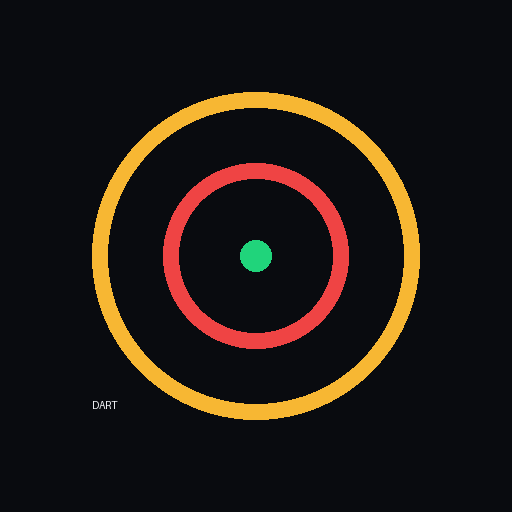
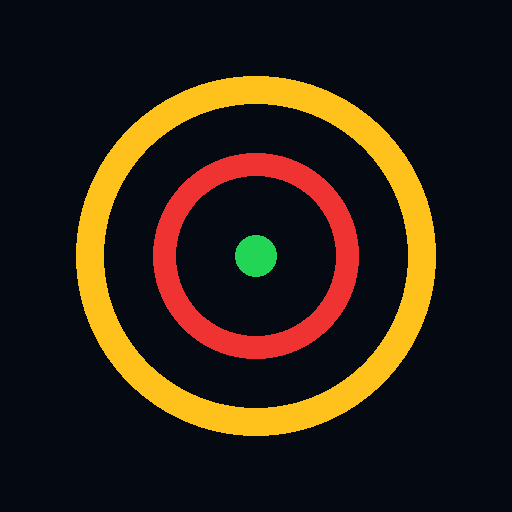
Add files via upload

diff --git a/index.html b/index.html
@@ -2,312 +2,75 @@
 <!doctype html>
 <html lang="no">
 <head>
-<meta charset="utf-8" />
-<meta name="viewport" content="width=device-width, initial-scale=1, viewport-fit=cover" />
-<meta name="theme-color" content="#090b0f" />
-<link rel="manifest" href="manifest.json" />
-<link rel="apple-touch-icon" href="icon-192.png" />
-<title>DART SCORE v4</title>
+<meta charset="utf-8">
+<meta name="viewport" content="width=device-width, initial-scale=1, viewport-fit=cover">
+<meta name="theme-color" content="#050911">
+<link rel="manifest" href="manifest.json">
+<link rel="apple-touch-icon" href="icon-192.png">
+<title>DART SCORE v5.3</title>
 <style>
-:root{
-  --bg:#090b0f;--panel:#121821;--panel2:#17202c;--line:#263140;--text:#f5f7fb;--muted:#9ca8b8;
-  --green:#20d47b;--gold:#f7b733;--red:#ef4444;--blue:#4aa3ff;--orange:#fb923c;
-}
-*{box-sizing:border-box}
-html,body{margin:0;width:100%;height:100%;overflow:hidden;background:var(--bg);color:var(--text);font-family:Arial,Helvetica,sans-serif}
-button,input,select{font-family:inherit}
-.app{
-  width:100vw;height:100vh;overflow:hidden;display:grid;grid-template-rows:58px 132px 1fr 300px;gap:8px;padding:8px;
-  background:radial-gradient(circle at 50% 35%, rgba(247,183,51,.08), transparent 28%),linear-gradient(180deg,#0d1118,#07080b);
-}
-.topbar{display:grid;grid-template-columns:1fr auto 1fr;align-items:center;background:linear-gradient(180deg,#151b24,#0e1218);border:1px solid var(--line);border-radius:14px;padding:0 10px;box-shadow:0 8px 30px rgba(0,0,0,.35)}
-.logo{font-size:21px;font-weight:900;letter-spacing:.3px}.logo span{color:var(--gold)}
-.match{font-size:24px;font-weight:900;color:var(--gold);text-align:center}
-.nav{justify-self:end;display:flex;gap:6px}.nav button{background:#202835;color:#fff;border:1px solid var(--line);border-radius:10px;padding:9px 12px;font-size:13px;font-weight:800}.nav .active{background:var(--gold);color:#101010}
-.players{display:grid;grid-template-columns:repeat(var(--player-cols,4),1fr);gap:8px;min-height:0}
-.player{position:relative;background:linear-gradient(180deg,#151d28,#101620);border:2px solid var(--line);border-radius:14px;padding:9px 11px;display:grid;grid-template-rows:auto 1fr auto;min-width:0}
-.player.active{border-color:var(--green);box-shadow:0 0 0 3px rgba(32,212,123,.12), 0 0 22px rgba(32,212,123,.12)}
-.pname{font-size:17px;font-weight:900;white-space:nowrap;overflow:hidden;text-overflow:ellipsis}.pscore{font-size:52px;font-weight:900;line-height:.95;letter-spacing:-2px}
-.pmeta{display:grid;grid-template-columns:repeat(4,1fr);gap:5px;color:var(--muted);font-size:10px}.pmeta b{display:block;color:var(--text);font-size:14px}
-.active-main{display:grid;grid-template-columns:1fr 145px;gap:8px;min-height:0}
-.hero{background:linear-gradient(180deg,#111923,#0c1118);border:2px solid var(--line);border-radius:16px;display:grid;grid-template-columns:1fr 210px;overflow:hidden;min-height:0}
-.hero-left{padding:14px 18px;display:flex;flex-direction:column;justify-content:center;min-width:0}
-.turn-label{font-size:13px;color:var(--muted);font-weight:800;letter-spacing:.8px}.turn-name{font-size:31px;font-weight:950;margin-top:2px;white-space:nowrap;overflow:hidden;text-overflow:ellipsis}
-.remaining{font-size:88px;font-weight:950;line-height:.9;color:var(--gold);letter-spacing:-4px;margin:5px 0}.checkout,.darts{font-size:17px}.checkout span{color:var(--green);font-weight:900}.darts{margin-top:8px;color:var(--muted)}.darts b{color:var(--text)}
-.message{margin-top:8px;font-size:16px;font-weight:800;color:var(--orange);min-height:20px}
-.hero-side{border-left:1px solid var(--line);background:#0c1219;display:grid;grid-template-rows:1fr 1fr}
-.sidebox{padding:13px;border-bottom:1px solid var(--line)}.sidebox:last-child{border-bottom:0}.side-title{color:var(--muted);font-size:11px;font-weight:900;margin-bottom:8px}.side-big{font-size:32px;font-weight:950}
-.quick{display:grid;grid-template-rows:1fr 1fr;gap:8px}.quick button{border:1px solid var(--line);border-radius:14px;background:var(--panel);color:var(--text);font-size:18px;font-weight:900}.quick .yellow{background:linear-gradient(180deg,#342917,#1d1710);border-color:#6a501b;color:#ffd15e}.quick .helmet{background:linear-gradient(180deg,#2b2414,#17140d);border-color:#5c4919;color:#ffd15e}
-.controls{display:grid;grid-template-columns:120px 1fr 150px;gap:8px;min-height:0}.modifiers,.actions{display:grid;grid-template-rows:1fr 1fr 1fr;gap:7px}.numbers{display:grid;grid-template-columns:repeat(7,1fr);grid-template-rows:repeat(3,1fr);gap:7px}
-.btn{border:0;border-radius:12px;color:white;font-weight:950;box-shadow:inset 0 0 0 1px rgba(255,255,255,.08), 0 8px 20px rgba(0,0,0,.25)}.btn-d{background:linear-gradient(180deg,#1f7b43,#13582f);font-size:34px}.btn-t{background:linear-gradient(180deg,#b32727,#7b1919);font-size:34px}.btn-m{background:linear-gradient(180deg,#394251,#202835);font-size:34px}.btn.selected{outline:4px solid var(--gold)}
-.num{background:linear-gradient(180deg,#242c38,#151b24);border:1px solid #333e4d;border-radius:12px;color:white;font-size:27px;font-weight:950}.num.hot{border-color:#73561d;background:linear-gradient(180deg,#3a2b16,#1d1710);color:#ffd15e}
-.undo{background:linear-gradient(180deg,#343b47,#1c222b);font-size:17px}.ok{background:linear-gradient(180deg,#2fbb63,#188144);font-size:20px}
-.page{display:none;width:100vw;height:100vh;overflow:auto;background:#090b0f;color:white;padding:14px}.page.active{display:block}.page h1{margin:0 0 12px}.panel{background:#111923;border:1px solid var(--line);border-radius:14px;padding:14px;margin-bottom:12px}.row{display:flex;gap:8px;flex-wrap:wrap;align-items:center}.field{background:#0d1219;border:1px solid var(--line);border-radius:10px;color:white;padding:10px;font-size:16px}.panel button,.page button{background:#202835;color:#fff;border:1px solid var(--line);border-radius:10px;padding:10px 14px;font-weight:800}.primary{background:var(--gold)!important;color:#111!important}.danger{background:#7f1d1d!important}.table{width:100%;border-collapse:collapse;font-size:14px}.table th,.table td{border-bottom:1px solid #263140;padding:8px;text-align:left}.small{color:var(--muted);font-size:13px}
-@media (max-width:900px){.app{transform:scale(.92);transform-origin:top left;width:108.7vw;height:108.7vh}}
+:root{--bg:#050911;--p:#0b141e;--p2:#111c29;--l:#334255;--t:#f7f8fb;--m:#a8b2c1;--g:#23d554;--y:#ffc21c;--r:#ef3232}
+*{box-sizing:border-box}html,body{margin:0;width:100%;height:100%;overflow:hidden;background:var(--bg);color:var(--t);font-family:Arial,Helvetica,sans-serif}button,input,select{font-family:inherit}
+#game{width:100vw;height:100vh;display:grid;grid-template-rows:58px 138px 1fr 182px;gap:6px;padding:4px;background:radial-gradient(circle at 45% 35%,rgba(0,160,255,.08),transparent 32%),linear-gradient(180deg,#050911,#03060b)}
+.top{display:grid;grid-template-columns:1fr auto 1fr;align-items:center;border:1px solid var(--l);border-radius:12px;background:#0b141e;padding:0 10px}.logo{font-size:20px;font-weight:950}.logo span{color:var(--y)}.match{font-size:25px;font-weight:950;color:var(--y)}.nav{justify-self:end;display:flex;gap:6px}.nav button{font-size:13px;font-weight:900;color:white;background:#121e2d;border:1px solid var(--l);border-radius:10px;padding:9px 13px}
+.players{display:grid;grid-template-columns:repeat(var(--cols),1fr);gap:6px;min-height:0}.player{background:linear-gradient(180deg,#0d1722,#070d14);border:2px solid var(--l);border-radius:12px;padding:10px 12px;display:grid;grid-template-rows:auto auto 1fr auto;min-width:0}.player.active{border-color:var(--g);box-shadow:0 0 14px rgba(35,213,84,.45)}.pName{font-size:18px;font-weight:950;white-space:nowrap;overflow:hidden;text-overflow:ellipsis}.player.active .pName{color:var(--g)}.pLabel{font-size:11px;color:var(--m);font-weight:950;margin-top:3px}.player.active .pLabel{color:var(--g)}.pScore{font-size:54px;font-weight:950;line-height:.9;letter-spacing:-2px}.player.active .pScore{color:var(--g)}.pStats{display:grid;grid-template-columns:repeat(5,1fr);gap:5px;font-size:10px;color:var(--m)}.pStats b{display:block;color:white;font-size:15px}
+.main{display:grid;grid-template-columns:1fr 115px 145px;gap:6px;min-height:0}.board{background:linear-gradient(180deg,#08131e,#050b12);border:1px solid var(--l);border-radius:14px;display:grid;grid-template-columns:290px 1fr;min-width:0}.activeInfo{padding:18px;border-right:1px solid var(--l);display:flex;flex-direction:column;justify-content:center}.smallHead{color:var(--m);font-size:15px;font-weight:950}.activeName{font-size:30px;font-weight:950;margin:6px 0}.bigScore{font-size:82px;line-height:.85;color:var(--y);font-weight:950;letter-spacing:-3px}.origin,.checkout{font-size:17px;margin-top:14px;color:var(--m)}.origin b{color:white}.checkout b{color:var(--g)}
+.dartArea{display:grid;grid-template-rows:1fr 54px;padding:14px 16px 10px}.dartCards{display:grid;grid-template-columns:repeat(3,1fr);gap:10px}.dartCard{border-right:1px solid #566273;text-align:center;display:flex;flex-direction:column;justify-content:center}.dartCard:last-child{border-right:0}.dartTitle{font-size:18px;font-weight:950}.dot{width:14px;height:14px;border-radius:50%;background:#697381;margin:9px auto}.dartCard.filled .dot,.dartCard.active .dot{background:var(--g)}.dartValue{font-size:58px;font-weight:950;line-height:1}.dartLabel{font-size:22px;color:var(--g);font-weight:950}.dartCard.active{background:rgba(35,213,84,.04);border-radius:12px}
+.live{border-top:1px solid #566273;display:grid;grid-template-columns:1fr 1fr 1.5fr;align-items:center;text-align:center;font-weight:950}.live .label{font-size:16px}.live .sum{font-size:38px;color:var(--y)}.live .now{font-size:38px;color:var(--g)}.trail{font-size:17px;color:var(--m)}.trail b{color:white}.trail span{color:var(--g)}
+.sideStats{background:#071019;border:1px solid var(--l);border-radius:14px;display:grid;grid-template-rows:1fr 1fr}.sideBox{padding:15px;border-bottom:1px solid var(--l)}.sideBox:last-child{border-bottom:0}.sideBox div{font-size:13px;color:var(--m);font-weight:950}.sideBox b{font-size:38px;display:block;margin-top:14px}
+.cards{display:grid;grid-template-rows:1fr 1fr;gap:6px}.cardBtn{border-radius:14px;border:1px solid;font-size:18px;font-weight:950}.yellow{background:#21190a;border-color:#8d6a00;color:var(--y)}.helmet{background:#180b0b;border-color:#7a1c1c;color:var(--r)}.cardBtn b{display:block;font-size:42px;margin-top:8px}
+.keypad{display:grid;grid-template-columns:120px 1fr 150px;gap:6px;min-height:0}.mods{display:grid;grid-template-rows:1fr 1fr;gap:6px}.mods button,.numbers button,.actions button{border-radius:12px;border:1px solid var(--l);color:white;font-weight:950}.modD,.modM{background:linear-gradient(180deg,#16833a,#0e5c29);font-size:42px}.modD.selected{outline:4px solid var(--y)}.numbers{display:grid;grid-template-columns:repeat(9,1fr);grid-template-rows:repeat(3,1fr);gap:6px}.numbers button{background:linear-gradient(180deg,#132233,#0b1420);font-size:30px}.bull{grid-column:1/5}.undoThrow{grid-column:5/8}.undoDart{grid-column:8/10}.actions{display:grid}.modT{background:linear-gradient(180deg,#c71919,#821111);font-size:52px}.modT.selected{outline:4px solid var(--y)}
+.page{display:none;width:100vw;height:100vh;overflow:auto;background:#050911;padding:18px}.page.active{display:block}.panel{background:#0b141e;border:1px solid var(--l);border-radius:16px;padding:18px;margin-bottom:14px}.row{display:flex;gap:12px;flex-wrap:wrap;align-items:center}.field{background:#08111b;color:white;border:1px solid var(--l);border-radius:10px;padding:12px;font-size:18px}.page button{font-weight:900;background:#121e2d;color:white;border:1px solid var(--l);border-radius:10px;padding:12px 16px}.primary{background:var(--y)!important;color:#111!important}.table{width:100%;border-collapse:collapse}.table th,.table td{padding:10px;border-bottom:1px solid var(--l);text-align:left}.startGrid{display:grid;grid-template-columns:1fr 1fr;gap:14px}.pickList{display:grid;grid-template-columns:repeat(2,1fr);gap:10px}.pick{background:#08111b;border:1px solid var(--l);border-radius:12px;padding:12px}.pick input{width:24px;height:24px}
 </style>
 </head>
 <body>
-<main id="game" class="app">
-  <header class="topbar">
+<main id="game">
+  <header class="top">
     <div class="logo">🎯 DART <span>SCORE</span></div>
     <div class="match" id="matchTitle">LEG 1 / 501</div>
-    <div class="nav">
-      <button onclick="showPage('setup')">Oppsett</button>
-      <button onclick="showPage('history')">Historikk</button>
-      <button onclick="showPage('stats')">Statistikk</button>
-    </div>
+    <div class="nav"><button onclick="showPage('start')">Start</button><button onclick="showPage('history')">Historikk</button><button onclick="showPage('stats')">Statistikk</button></div>
   </header>
   <section class="players" id="players"></section>
-  <section class="active-main">
-    <div class="hero">
-      <div class="hero-left">
-        <div class="turn-label">AKTIV SPILLER</div>
-        <div class="turn-name" id="turnName">-</div>
-        <div class="remaining" id="remaining">501</div>
-        <div class="checkout">Checkout: <span id="checkout">—</span></div>
-        <div class="darts" id="darts">Pil 1: <b>—</b> · Pil 2: <b>—</b> · Pil 3: <b>—</b></div>
-        <div class="message" id="message"></div>
+  <section class="main">
+    <section class="board">
+      <div class="activeInfo">
+        <div class="smallHead">AKTIV SPILLER</div><div class="activeName" id="activeName"></div><div class="bigScore" id="activeScore"></div>
+        <div class="origin">Opprinnelig score: <b id="originScore"></b></div><div class="checkout">Checkout:<br><b id="checkout">—</b></div>
       </div>
-      <div class="hero-side">
-        <div class="sidebox"><div class="side-title">RUNDE</div><div class="side-big" id="roundSum">0</div></div>
-        <div class="sidebox"><div class="side-title">DAGENS HØYESTE</div><div class="side-big" id="dailyHigh">0</div></div>
-      </div>
-    </div>
-    <div class="quick">
-      <button class="yellow" onclick="card('yellow')">🟨<br>GULT KORT</button>
-      <button class="helmet" onclick="card('helmet')">⛑️<br>HJELM BRUKT</button>
-    </div>
+      <div class="dartArea"><div class="dartCards" id="dartCards"></div><div class="live"><div><div class="label">SUM KAST</div><div class="sum" id="sumThrow">0</div></div><div><div class="label">SCORE IGJEN NÅ</div><div class="now" id="scoreNow">501</div></div><div class="trail" id="liveTrail">LIVE: <b>501</b></div></div></div>
+    </section>
+    <section class="sideStats"><div class="sideBox"><div>RUNDE</div><b id="roundNo">1</b></div><div class="sideBox"><div>DAGENS HØYESTE</div><b id="dailyHigh">0</b></div></section>
+    <section class="cards"><button class="cardBtn yellow" onclick="card('yellow')">🟨<br>GULT KORT<b id="yellowCount">0</b></button><button class="cardBtn helmet" onclick="card('helmet')">🪖<br>HJELM BRUKT<b id="helmetCount">0</b></button></section>
   </section>
-  <section class="controls">
-    <div class="modifiers">
-      <button id="btnD" class="btn btn-d" onclick="toggleMod('D')">D</button>
-      <button id="btnT" class="btn btn-t" onclick="toggleMod('T')">T</button>
-      <button class="btn btn-m" onclick="miss()">M</button>
-    </div>
-    <div class="numbers" id="numbers"></div>
-    <div class="actions">
-      <button class="btn undo" onclick="undoDart()">↶ ANGRE PIL</button>
-      <button class="btn undo" onclick="undoThrow()">↶ ANGRE KAST</button>
-      <button class="btn ok" onclick="saveThrow()">OK<br>NESTE</button>
-    </div>
-  </section>
+  <section class="keypad"><div class="mods"><button id="btnD" class="modD" onclick="toggleMod('D')">D</button><button class="modM" onclick="miss()">M</button></div><div class="numbers" id="numbers"></div><div class="actions"><button id="btnT" class="modT" onclick="toggleMod('T')">T</button></div></section>
 </main>
-
-<section id="setup" class="page">
-  <h1>Oppsett</h1>
-  <div class="panel">
-    <h2>Nytt spill</h2>
-    <div class="row">
-      <label>Spilltype <select id="startScore" class="field"><option>301</option><option selected>501</option><option>701</option></select></label>
-      <label>IN <select id="inRule" class="field"><option value="single">Single In</option><option value="master" selected>Master In</option></select></label>
-      <label>OUT <select id="outRule" class="field"><option value="single">Single Out</option><option value="double" selected>Double Out</option><option value="master">Master Out</option></select></label>
-    </div>
-    <h3>Spillere</h3>
-    <div id="playerInputs"></div>
-    <div class="row">
-      <button onclick="addPlayerInput()">+ Spiller</button>
-      <button onclick="removePlayerInput()">- Spiller</button>
-      <button class="primary" onclick="newGame()">Start nytt spill</button>
-      <button onclick="showPage('game')">Tilbake</button>
-    </div>
-  </div>
-</section>
-
-<section id="history" class="page">
-  <h1>Historikk</h1>
-  <div class="panel row">
-    <button onclick="showPage('game')">Tilbake til spill</button>
-    <button onclick="exportCSV()">Eksporter CSV</button>
-    <button class="danger" onclick="clearHistory()">Slett historikk</button>
-  </div>
-  <div class="panel">
-    <h2>Kamper</h2>
-    <table class="table" id="historyTable"></table>
-  </div>
-  <div class="panel">
-    <h2>Kast i valgt kamp</h2>
-    <table class="table" id="throwTable"></table>
-  </div>
-</section>
-
-<section id="stats" class="page">
-  <h1>Statistikk</h1>
-  <div class="panel row"><button onclick="showPage('game')">Tilbake til spill</button></div>
-  <div class="panel"><table class="table" id="statsTable"></table></div>
-</section>
-
+<section id="start" class="page"><div class="panel"><h1>DART SCORE – Start</h1><div class="row"><button onclick="showGame()">Til spill</button><button class="primary" onclick="startGame()">Start kamp</button></div></div><div class="startGrid"><div class="panel"><h2>Nytt spill</h2><div class="row"><label>Spill <select id="startScore" class="field"><option>301</option><option selected>501</option><option>701</option></select></label><label>IN <select id="inRule" class="field"><option value="single">Single In</option><option value="master" selected>Master In</option></select></label><label>OUT <select id="outRule" class="field"><option value="single">Single Out</option><option value="double" selected>Double Out</option><option value="master">Master Out</option></select></label></div><h2>Spillere</h2><div id="pickList" class="pickList"></div><div class="row"><input id="newName" class="field" placeholder="Nytt navn"><button onclick="addKnown()">Legg til</button></div></div><div class="panel"><h2>Spillerhistorikk</h2><table class="table" id="homeStats"></table></div></div></section>
+<section id="history" class="page"><div class="panel row"><h1>Historikk</h1><button onclick="showGame()">Tilbake</button><button onclick="exportCSV()">Eksporter CSV</button></div><div class="panel"><h2>Spilleroversikt</h2><table class="table" id="historyPlayerTable"></table></div><div class="panel"><h2>Kast-historikk</h2><table class="table" id="historyTable"></table></div></section>
+<section id="stats" class="page"><div class="panel row"><h1>Statistikk</h1><button onclick="showGame()">Tilbake</button></div><div class="panel"><table class="table" id="statsTable"></table></div></section>
 <script>
-const STORE='dartscore-v4-complete';
-let state = JSON.parse(localStorage.getItem(STORE)||'null') || defaultState();
-let selectedMod = null;
-
-function defaultState(){
-  return {
-    gameId: Date.now(), startScore:501, inRule:'master', outRule:'double', active:0, leg:1, current:[],
-    players:[p('Marius'),p('Dag Arne'),p('Sven Tore'),p('Spiller 4')],
-    throws:[], games:[], dailyDate:new Date().toISOString().slice(0,10), dailyHigh:0, message:''
-  };
-}
-function p(name){return {name,score:501,inOpen:false,darts:0,totalScored:0,high:0,n180:0,n140:0,n100:0,yellow:0,helmet:0,winner:false};}
-function save(){localStorage.setItem(STORE,JSON.stringify(state));}
-function showPage(id){
-  document.getElementById('game').style.display = id==='game'?'grid':'none';
-  document.querySelectorAll('.page').forEach(x=>x.classList.remove('active'));
-  if(id!=='game') document.getElementById(id).classList.add('active');
-  if(id==='history') renderHistory();
-  if(id==='stats') renderStats();
-}
-function render(){
-  if(new Date().toISOString().slice(0,10)!==state.dailyDate){state.dailyDate=new Date().toISOString().slice(0,10);state.dailyHigh=0;}
-  document.getElementById('matchTitle').textContent = `LEG ${state.leg} / ${state.startScore}`;
-  document.documentElement.style.setProperty('--player-cols', Math.min(state.players.length,4));
-  const wrap=document.getElementById('players'); wrap.innerHTML='';
-  state.players.forEach((pl,i)=>{
-    const avg = pl.darts ? ((pl.totalScored/pl.darts)*3).toFixed(1) : '0.0';
-    wrap.innerHTML += `<article class="player ${i===state.active?'active':''}">
-      <div class="pname">${esc(pl.name)}${pl.winner?' 🏆':''}</div><div class="pscore">${pl.score}</div>
-      <div class="pmeta"><div>Avg<b>${avg}</b></div><div>180<b>${pl.n180}</b></div><div>High<b>${pl.high}</b></div><div>Hjelm<b>${pl.helmet?'Ja':'Nei'}</b></div></div>
-    </article>`;
-  });
-  const pl=state.players[state.active];
-  document.getElementById('turnName').textContent=pl.name;
-  document.getElementById('remaining').textContent=pl.score;
-  document.getElementById('checkout').textContent = checkout(pl.score);
-  const ds=[0,1,2].map(i=> state.current[i] ? `<b>${state.current[i].label}</b>` : '<b>—</b>');
-  document.getElementById('darts').innerHTML = `Pil 1: ${ds[0]} · Pil 2: ${ds[1]} · Pil 3: ${ds[2]}`;
-  document.getElementById('roundSum').textContent = state.current.reduce((a,d)=>a+d.value,0);
-  document.getElementById('dailyHigh').textContent = state.dailyHigh;
-  document.getElementById('message').textContent = state.message||'';
-  document.getElementById('btnD').classList.toggle('selected',selectedMod==='D');
-  document.getElementById('btnT').classList.toggle('selected',selectedMod==='T');
-  save();
-}
-function esc(s){return String(s).replace(/[&<>"']/g,c=>({'&':'&amp;','<':'&lt;','>':'&gt;','"':'&quot;',"'":'&#39;'}[c]));}
-function buildNums(){
-  const nums=[20,19,18,17,16,15,14,13,12,11,10,9,8,7,6,5,4,3,2,1,25];
-  document.getElementById('numbers').innerHTML = nums.map(n=>`<button class="num ${(n>=19||n===25)?'hot':''}" onclick="hit(${n})">${n}</button>`).join('');
-}
-function toggleMod(m){selectedMod = selectedMod===m ? null : m; render();}
-function addDart(label,value,rawValue,mod,num){
-  if(state.current.length>=3) return;
-  state.current.push({label,value,rawValue,mod,num});
-  selectedMod=null; state.message='';
-  if(state.current.length===3) saveThrow(); else render();
-}
-function hit(num){
-  const mod=selectedMod||'S';
-  let mult = mod==='D'?2:mod==='T'?3:1;
-  let raw = num*mult;
-  if(num===25 && mod==='D') raw=50;
-  if(num===25 && mod==='T') raw=25; // triple bull finnes ikke, teller som single bull
-  const pl=state.players[state.active];
-  let value=raw, label=`${mod}${num}`;
-  if(state.inRule==='master' && !pl.inOpen && mod==='S'){ value=0; label=`S${num}=0`; }
-  addDart(label,value,raw,mod,num);
-}
-function miss(){addDart('M',0,0,'M',0);}
-function undoDart(){state.current.pop(); state.message=''; render();}
-function saveThrow(){
-  const pl=state.players[state.active];
-  while(state.current.length<3) state.current.push({label:'-',value:0,rawValue:0,mod:'M',num:0});
-  const before=pl.score;
-  let darts=state.current.map(x=>({...x}));
-  let openedThisThrow=false;
-  if(state.inRule==='master' && !pl.inOpen){
-    let openIndex=darts.findIndex(d=>d.mod==='D'||d.mod==='T');
-    if(openIndex<0){darts=darts.map(d=>({...d,value:0,label:d.label==='-'?'-':`${d.label.replace('=0','')}=0`}));}
-    else{
-      openedThisThrow=true;
-      darts=darts.map((d,i)=> i<openIndex ? {...d,value:0,label:d.label==='-'?'-':`${d.label}=0`} : d);
-    }
-  }
-  const sum=darts.reduce((a,d)=>a+d.value,0);
-  const after=before-sum;
-  const lastScoring = [...darts].reverse().find(d=>d.value>0);
-  let bust=false, win=false, msg='';
-  if(after<0 || after===1){bust=true; msg='BUST';}
-  if(after===0){
-    const okOut = state.outRule==='single' || (state.outRule==='double' && lastScoring?.mod==='D') || (state.outRule==='master' && (lastScoring?.mod==='D'||lastScoring?.mod==='T'));
-    if(okOut){win=true; msg=`${pl.name} vant!`;} else {bust=true; msg='BUST – feil avslutning';}
-  }
-  state.throws.push({gameId:state.gameId,time:new Date().toLocaleString('no-NO'),player:pl.name,playerIndex:state.active,before,darts,sum,bust,after:bust?before:after,inOpened:openedThisThrow,ruleIn:state.inRule,ruleOut:state.outRule});
-  if(!bust){
-    pl.score=after; pl.darts += darts.filter(d=>d.label!=='-').length || 3; pl.totalScored += sum;
-    if(openedThisThrow || state.inRule==='single') pl.inOpen=true;
-    pl.high=Math.max(pl.high,sum); if(sum===180)pl.n180++; if(sum>=140)pl.n140++; if(sum>=100)pl.n100++;
-    state.dailyHigh=Math.max(state.dailyHigh,sum);
-    if(win){pl.winner=true; finishGame(pl.name);}
-  }
-  state.current=[]; state.message=msg;
-  if(!win) nextPlayer();
-  render();
-}
-function nextPlayer(){let i=state.active; for(let n=0;n<state.players.length;n++){i=(i+1)%state.players.length;if(!state.players[i].winner){state.active=i;break;}}}
-function undoThrow(){
-  const t=state.throws.pop(); if(!t){state.message='Ingen kast å angre';render();return;}
-  const pl=state.players[t.playerIndex]; state.active=t.playerIndex; pl.score=t.before; pl.winner=false;
-  if(!t.bust){pl.darts=Math.max(0,pl.darts-3); pl.totalScored=Math.max(0,pl.totalScored-t.sum);}
-  // rebuild safer
-  rebuildStatsFromThrows();
-  state.current=[]; state.message='Kast angret'; render();
-}
-function rebuildStatsFromThrows(){
-  const names=state.players.map(p=>({name:p.name,yellow:p.yellow,helmet:p.helmet}));
-  state.players=names.map(x=>({...p(x.name), yellow:x.yellow, helmet:x.helmet, score:state.startScore, inOpen:state.inRule==='single'}));
-  state.dailyHigh=0;
-  const old=[...state.throws]; state.throws=[];
-  let active=state.active;
-  old.forEach(t=>{
-    const idx=t.playerIndex, pl=state.players[idx]; const sum=t.bust?0:t.sum;
-    if(!t.bust){pl.score=t.after; pl.darts+=3; pl.totalScored+=t.sum; pl.inOpen=true; pl.high=Math.max(pl.high,t.sum); if(t.sum===180)pl.n180++; if(t.sum>=140)pl.n140++; if(t.sum>=100)pl.n100++; state.dailyHigh=Math.max(state.dailyHigh,t.sum);}
-    state.throws.push(t);
-  });
-  state.active=active;
-}
-function card(type){const pl=state.players[state.active]; if(type==='yellow')pl.yellow++; else pl.helmet=pl.helmet?0:1; render();}
-function checkout(score){
-  const m={170:'T20 T20 Bull',167:'T20 T19 Bull',164:'T20 T18 Bull',161:'T20 T17 Bull',160:'T20 T20 D20',158:'T20 T20 D19',157:'T20 T19 D20',156:'T20 T20 D18',155:'T20 T19 D19',154:'T20 T18 D20',153:'T20 T19 D18',152:'T20 T20 D16',151:'T20 T17 D20',150:'T20 T18 D18',141:'T20 T19 D12',140:'T20 T20 D10',121:'T20 T11 D14',100:'T20 D20',81:'T19 D12',60:'20 D20',50:'Bull',40:'D20',32:'D16',24:'D12',16:'D8',8:'D4',4:'D2',2:'D1'};
-  return m[score] || (score<170?'—':'—');
-}
-function finishGame(winner){
-  state.games.unshift({id:state.gameId,date:new Date().toLocaleString('no-NO'),winner,startScore:state.startScore,inRule:state.inRule,outRule:state.outRule,players:state.players.map(p=>p.name).join(', '),throws:state.throws.filter(t=>t.gameId===state.gameId).length});
-}
-function setupInputs(){
-  const box=document.getElementById('playerInputs'); box.innerHTML='';
-  state.players.forEach((pl,i)=> box.innerHTML+=`<input class="field playerName" value="${esc(pl.name)}" placeholder="Spiller ${i+1}"> `);
-}
-function addPlayerInput(){ if(document.querySelectorAll('.playerName').length>=8)return; const box=document.getElementById('playerInputs'); box.innerHTML+=`<input class="field playerName" value="" placeholder="Spiller"> `;}
-function removePlayerInput(){ const inputs=document.querySelectorAll('.playerName'); if(inputs.length>2) inputs[inputs.length-1].remove();}
-function newGame(){
-  const names=[...document.querySelectorAll('.playerName')].map(x=>x.value.trim()).filter(Boolean).slice(0,8);
-  if(names.length<2){alert('Legg inn minst 2 spillere');return;}
-  const score=+document.getElementById('startScore').value;
-  state={...state, gameId:Date.now(), startScore:score, inRule:document.getElementById('inRule').value, outRule:document.getElementById('outRule').value, active:0, leg:1, current:[], throws:[], message:'', players:names.map(n=>({...p(n),score,inOpen:document.getElementById('inRule').value==='single'}))};
-  showPage('game'); render();
-}
-function renderHistory(){
-  document.getElementById('historyTable').innerHTML='<tr><th>Dato</th><th>Vinner</th><th>Spill</th><th>Regler</th><th>Spillere</th><th>Kast</th><th></th></tr>'+state.games.map(g=>`<tr><td>${g.date}</td><td>${esc(g.winner)}</td><td>${g.startScore}</td><td>${g.inRule}/${g.outRule}</td><td>${esc(g.players)}</td><td>${g.throws}</td><td><button onclick="showThrows(${g.id})">Vis</button></td></tr>`).join('');
-  showThrows(state.games[0]?.id);
-}
-function showThrows(id){
-  const rows=state.throws.filter(t=>!id||t.gameId===id);
-  document.getElementById('throwTable').innerHTML='<tr><th>Tid</th><th>Spiller</th><th>Før</th><th>Pil 1</th><th>Pil 2</th><th>Pil 3</th><th>Sum</th><th>Etter</th><th>Status</th></tr>'+rows.map(t=>`<tr><td>${t.time}</td><td>${esc(t.player)}</td><td>${t.before}</td><td>${t.darts[0].label}</td><td>${t.darts[1].label}</td><td>${t.darts[2].label}</td><td>${t.sum}</td><td>${t.after}</td><td>${t.bust?'Bust':t.inOpened?'Åpnet':''}</td></tr>`).join('');
-}
-function renderStats(){
-  const agg={};
-  [...state.players.map(pl=>pl.name), ...state.throws.map(t=>t.player)].forEach(n=>agg[n]=agg[n]||{name:n,darts:0,total:0,high:0,n180:0,n140:0,n100:0});
-  state.throws.forEach(t=>{if(t.bust)return; const a=agg[t.player]; a.darts+=3;a.total+=t.sum;a.high=Math.max(a.high,t.sum);if(t.sum===180)a.n180++;if(t.sum>=140)a.n140++;if(t.sum>=100)a.n100++;});
-  document.getElementById('statsTable').innerHTML='<tr><th>Spiller</th><th>3-darts avg</th><th>High</th><th>180</th><th>140+</th><th>100+</th></tr>'+Object.values(agg).map(a=>`<tr><td>${esc(a.name)}</td><td>${a.darts?((a.total/a.darts)*3).toFixed(1):'0.0'}</td><td>${a.high}</td><td>${a.n180}</td><td>${a.n140}</td><td>${a.n100}</td></tr>`).join('');
-}
-function exportCSV(){
-  const rows=[['Tid','KampID','Spiller','Før','Pil1','Pil2','Pil3','Sum','Etter','Bust','IN','OUT']];
-  state.throws.forEach(t=>rows.push([t.time,t.gameId,t.player,t.before,t.darts[0].label,t.darts[1].label,t.darts[2].label,t.sum,t.after,t.bust,t.ruleIn,t.ruleOut]));
-  const csv=rows.map(r=>r.map(v=>`"${String(v).replaceAll('"','""')}"`).join(';')).join('\n');
-  const a=document.createElement('a'); a.href=URL.createObjectURL(new Blob([csv],{type:'text/csv'})); a.download='dart-score-historikk.csv'; a.click();
-}
-function clearHistory(){if(confirm('Slette all historikk?')){state.games=[];state.throws=[];save();renderHistory();}}
-buildNums(); setupInputs(); render();
-if('serviceWorker' in navigator) navigator.serviceWorker.register('service-worker.js');
+const STORE='dart-score-v53-clean';
+function newPlayer(name,score,inRule){return{name,score,inOpen:inRule==='single',darts:0,total:0,high:0,n180:0,yellow:0,helmet:0,winner:false,lastSum:0}}
+let state=JSON.parse(localStorage.getItem(STORE)||'null')||{startScore:501,inRule:'master',outRule:'double',active:0,leg:1,gameId:Date.now(),selected:null,current:[],throws:[],games:[],dailyHigh:0,known:['Marius','Dag Arne','Sven Tore','Alf'],players:['Marius','Dag Arne','Sven Tore','Alf'].map(n=>newPlayer(n,501,'master'))};
+function save(){localStorage.setItem(STORE,JSON.stringify(state))}
+function showPage(id){document.getElementById('game').style.display='none';document.querySelectorAll('.page').forEach(p=>p.classList.remove('active'));document.getElementById(id).classList.add('active');if(id==='start')renderStart();if(id==='history')renderHistory();if(id==='stats')renderStats()}
+function showGame(){document.querySelectorAll('.page').forEach(p=>p.classList.remove('active'));document.getElementById('game').style.display='grid';render()}
+function dartValue(d){if(!d||d.mod==='M')return 0;let v=d.num*(d.mod==='D'?2:d.mod==='T'?3:1);if(d.num===25&&d.mod==='D')v=50;if(d.num===25&&d.mod==='T')v=25;return v}
+function liveDarts(){const pl=state.players[state.active];let opened=pl.inOpen||state.inRule==='single';return state.current.map(d=>{let x={...d,value:dartValue(d),label:d.mod==='M'?'M':`${d.mod}${d.num}`};if(state.inRule==='master'&&!opened){if(d.mod==='D'||d.mod==='T'){opened=true}else{x.value=0;if(x.label!=='M')x.label=x.label+'=0'}}return x})}
+function liveSum(){return liveDarts().reduce((a,d)=>a+d.value,0)}
+function scoreNow(){let n=state.players[state.active].score-liveSum();return n<0?state.players[state.active].score:n}
+function render(){const pl=state.players[state.active];document.documentElement.style.setProperty('--cols',Math.min(state.players.length,4));document.getElementById('matchTitle').textContent=`LEG ${state.leg} / ${state.startScore}`;document.getElementById('players').innerHTML=state.players.map((p,i)=>`<div class="player ${i===state.active?'active':''}"><div class="pName">${p.name}</div><div class="pLabel">SCORE IGJEN</div><div class="pScore">${i===state.active?scoreNow():p.score}</div><div class="pStats"><div>SISTE<b>${p.lastSum||0}</b></div><div>AVG<b>${p.darts?((p.total/p.darts)*3).toFixed(1):'0.0'}</b></div><div>180<b>${p.n180}</b></div><div>GULT<b>${p.yellow}</b></div><div>HJELM<b>${p.helmet}</b></div></div></div>`).join('');document.getElementById('activeName').textContent=pl.name;document.getElementById('activeScore').textContent=scoreNow();document.getElementById('originScore').textContent=pl.score;const darts=liveDarts();let run=pl.score;document.getElementById('dartCards').innerHTML=[0,1,2].map(i=>{let d=darts[i];return `<div class="dartCard ${d?'filled':''} ${i===state.current.length?'active':''}"><div class="dartTitle">KAST ${i+1}</div><div class="dot"></div><div class="dartValue">${d?d.value:'—'}</div><div class="dartLabel">${d?d.label:'—'}</div></div>`}).join('');document.getElementById('sumThrow').textContent=liveSum();document.getElementById('scoreNow').textContent=scoreNow();let trail=[pl.score];run=pl.score;darts.forEach(d=>{run-=d.value;trail.push(run<0?pl.score:run)});document.getElementById('liveTrail').innerHTML='LIVE: '+trail.map((x,i)=>i===0?`<b>${x}</b>`:`<span>${x}</span>`).join(' → ');document.getElementById('checkout').textContent=checkout(scoreNow());document.getElementById('roundNo').textContent=state.throws.filter(t=>t.playerIndex===state.active).length+1;document.getElementById('dailyHigh').textContent=state.dailyHigh;document.getElementById('yellowCount').textContent=pl.yellow;document.getElementById('helmetCount').textContent=pl.helmet;document.getElementById('btnD').classList.toggle('selected',state.selected==='D');document.getElementById('btnT').classList.toggle('selected',state.selected==='T');save()}
+function buildNumbers(){const nums=[1,2,3,4,5,6,7,8,9,11,12,13,14,15,16,17,18,20];document.getElementById('numbers').innerHTML=nums.map(n=>`<button onclick="hit(${n})">${n}</button>`).join('')+`<button class="bull" onclick="hit(25)">25</button><button class="undoThrow" onclick="undoThrow()">↶ ANGRE KAST</button><button class="undoDart" onclick="undoDart()">↶ ANGRE PIL</button>`}
+function toggleMod(m){state.selected=state.selected===m?null:m;render()}function hit(num){if(state.current.length>=3)return;state.current.push({num,mod:state.selected||'S'});state.selected=null;if(state.current.length===3)saveThrow();else render()}function miss(){if(state.current.length>=3)return;state.current.push({num:0,mod:'M'});if(state.current.length===3)saveThrow();else render()}function undoDart(){state.current.pop();render()}
+function saveThrow(){while(state.current.length<3)state.current.push({num:0,mod:'M'});const pl=state.players[state.active],before=pl.score,darts=liveDarts(),sum=darts.reduce((a,d)=>a+d.value,0),after=before-sum;let bust=after<0||after===1,win=false;const last=[...darts].reverse().find(d=>d.value>0);if(after===0){const ok=state.outRule==='single'||(state.outRule==='double'&&last?.mod==='D')||(state.outRule==='master'&&(last?.mod==='D'||last?.mod==='T'));if(ok)win=true;else bust=true}pl.lastSum=sum;state.throws.push({gameId:state.gameId,time:new Date().toLocaleString('no-NO'),player:pl.name,playerIndex:state.active,before,darts,sum,after:bust?before:after,bust});if(!bust){pl.score=after;pl.darts+=3;pl.total+=sum;pl.high=Math.max(pl.high,sum);if(sum===180)pl.n180++;state.dailyHigh=Math.max(state.dailyHigh,sum);if(state.inRule==='master'&&darts.some(d=>d.mod==='D'||d.mod==='T'))pl.inOpen=true;if(win){pl.winner=true;state.games.unshift({id:state.gameId,date:new Date().toLocaleString('no-NO'),winner:pl.name,players:state.players.map(p=>p.name).join(', '),score:state.startScore})}}state.current=[];state.active=(state.active+1)%state.players.length;render()}
+function undoThrow(){const t=state.throws.pop();if(!t)return;state.active=t.playerIndex;rebuildFromThrows();render()}function rebuildFromThrows(){const names=state.players.map(p=>({name:p.name,yellow:p.yellow,helmet:p.helmet}));const old=[...state.throws];state.players=names.map(x=>({...newPlayer(x.name,state.startScore,state.inRule),yellow:x.yellow,helmet:x.helmet}));state.throws=[];state.dailyHigh=0;old.forEach(t=>{const pl=state.players[t.playerIndex];pl.lastSum=t.sum;if(!t.bust){pl.score=t.after;pl.darts+=3;pl.total+=t.sum;pl.high=Math.max(pl.high,t.sum);if(t.sum===180)pl.n180++;state.dailyHigh=Math.max(state.dailyHigh,t.sum);pl.inOpen=true}state.throws.push(t)})}
+function card(type){const pl=state.players[state.active];if(type==='yellow')pl.yellow++;else pl.helmet++;render()}
+function checkout(s){const c={170:'T20 · T20 · Bull',167:'T20 · T19 · Bull',164:'T20 · T18 · Bull',161:'T20 · T17 · Bull',160:'T20 · T20 · D20',141:'T20 · T19 · D12',100:'T20 · D20',81:'T19 · D12',60:'20 · D20',40:'D20',32:'D16',24:'D12',16:'D8',8:'D4',4:'D2',2:'D1'};return c[s]||'—'}
+function renderStart(){const names=[...new Set([...(state.known||[]),...state.players.map(p=>p.name),...state.throws.map(t=>t.player)])];document.getElementById('pickList').innerHTML=names.map(n=>`<label class="pick"><input type="checkbox" class="pickName" value="${n}" ${state.players.some(p=>p.name===n)?'checked':''}> <b>${n}</b></label>`).join('');renderHomeStats()}function addKnown(){let n=document.getElementById('newName').value.trim();if(n&&!state.known.includes(n))state.known.push(n);document.getElementById('newName').value='';renderStart()}function startGame(){const names=[...document.querySelectorAll('.pickName:checked')].map(x=>x.value).slice(0,8);if(names.length<2){alert('Velg minst 2 spillere');return}state.startScore=+document.getElementById('startScore').value;state.inRule=document.getElementById('inRule').value;state.outRule=document.getElementById('outRule').value;state.active=0;state.current=[];state.gameId=Date.now();state.players=names.map(n=>newPlayer(n,state.startScore,state.inRule));showGame()}
+function statsFor(n){let rows=state.throws.filter(t=>t.player===n&&!t.bust),total=rows.reduce((a,t)=>a+t.sum,0),darts=rows.length*3,wins=state.games.filter(g=>g.winner===n).length;return{avg:darts?((total/darts)*3).toFixed(1):'0.0',high:rows.reduce((m,t)=>Math.max(m,t.sum),0),n180:rows.filter(t=>t.sum===180).length,games:new Set(rows.map(t=>t.gameId)).size,wins}}
+function renderHomeStats(){const names=[...new Set([...(state.known||[]),...state.throws.map(t=>t.player)])];document.getElementById('homeStats').innerHTML='<tr><th>Spiller</th><th>Kamper</th><th>Seiere</th><th>Avg</th><th>High</th><th>180</th></tr>'+names.map(n=>{let st=statsFor(n);return`<tr><td>${n}</td><td>${st.games}</td><td>${st.wins}</td><td>${st.avg}</td><td>${st.high}</td><td>${st.n180}</td></tr>`}).join('')}
+function renderHistory(){const names=[...new Set([...state.players.map(p=>p.name),...state.throws.map(t=>t.player),...(state.known||[])])];document.getElementById('historyPlayerTable').innerHTML='<tr><th>Spiller</th><th>Kamper spilt</th><th>Seiere</th><th>Avg</th><th>High</th><th>180</th></tr>'+names.map(n=>{let st=statsFor(n);return`<tr><td>${n}</td><td>${st.games}</td><td>${st.wins}</td><td>${st.avg}</td><td>${st.high}</td><td>${st.n180}</td></tr>`}).join('');document.getElementById('historyTable').innerHTML='<tr><th>Tid</th><th>Spiller</th><th>Før</th><th>Kast</th><th>Sum</th><th>Etter</th><th>Status</th></tr>'+state.throws.map(t=>`<tr><td>${t.time}</td><td>${t.player}</td><td>${t.before}</td><td>${t.darts.map(d=>d.label).join(' | ')}</td><td>${t.sum}</td><td>${t.after}</td><td>${t.bust?'Bust':''}</td></tr>`).join('')}
+function renderStats(){const names=[...new Set([...state.players.map(p=>p.name),...state.throws.map(t=>t.player)])];document.getElementById('statsTable').innerHTML='<tr><th>Spiller</th><th>Kamper</th><th>Seiere</th><th>Avg</th><th>High</th><th>180</th></tr>'+names.map(n=>{let st=statsFor(n);return`<tr><td>${n}</td><td>${st.games}</td><td>${st.wins}</td><td>${st.avg}</td><td>${st.high}</td><td>${st.n180}</td></tr>`}).join('')}
+function exportCSV(){let rows=[['Tid','Spiller','Før','Kast1','Kast2','Kast3','Sum','Etter','Bust']];state.throws.forEach(t=>rows.push([t.time,t.player,t.before,t.darts[0].label,t.darts[1].label,t.darts[2].label,t.sum,t.after,t.bust]));let csv=rows.map(r=>r.map(v=>`"${String(v).replaceAll('"','""')}"`).join(';')).join('\n');let a=document.createElement('a');a.href=URL.createObjectURL(new Blob([csv]));a.download='dart-score.csv';a.click()}
+buildNumbers();render();if('serviceWorker'in navigator)navigator.serviceWorker.register('service-worker.js');
 </script>
-</body>
-</html>
+</body></html>

diff --git a/service-worker.js b/service-worker.js
@@ -1,5 +1,5 @@
-const CACHE='dart-score-v4-complete-1';
+const CACHE='dart-score-v5-3-complete-clean-1';
 const ASSETS=['./','./index.html','./manifest.json','./icon-192.png','./icon-512.png'];
-self.addEventListener('install',e=>e.waitUntil(caches.open(CACHE).then(c=>c.addAll(ASSETS))));
-self.addEventListener('activate',e=>e.waitUntil(caches.keys().then(keys=>Promise.all(keys.filter(k=>k!==CACHE).map(k=>caches.delete(k))))));
-self.addEventListener('fetch',e=>e.respondWith(caches.match(e.request).then(r=>r||fetch(e.request))));
+self.addEventListener('install',e=>{self.skipWaiting();e.waitUntil(caches.open(CACHE).then(c=>c.addAll(ASSETS)));});
+self.addEventListener('activate',e=>{e.waitUntil(caches.keys().then(keys=>Promise.all(keys.filter(k=>k!==CACHE).map(k=>caches.delete(k)))));self.clients.claim();});
+self.addEventListener('fetch',e=>e.respondWith(fetch(e.request).catch(()=>caches.match(e.request))));